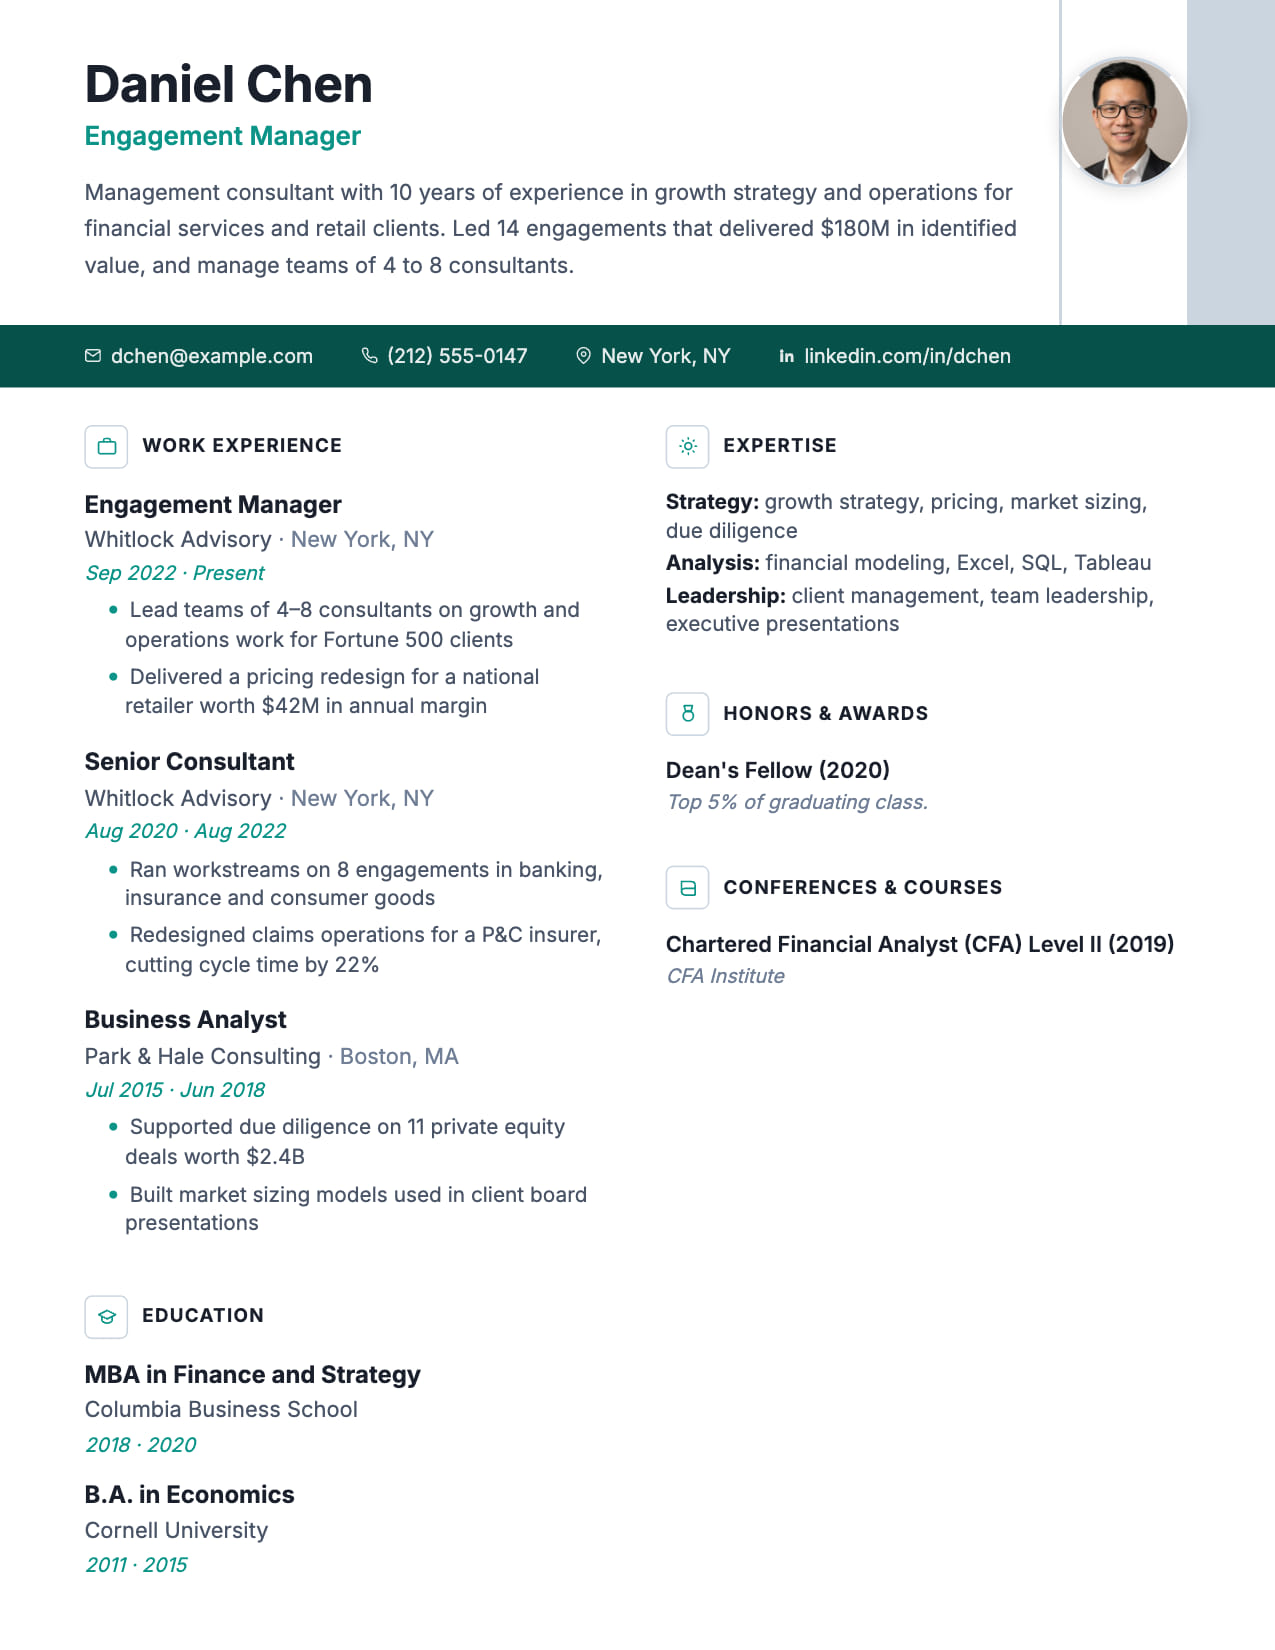
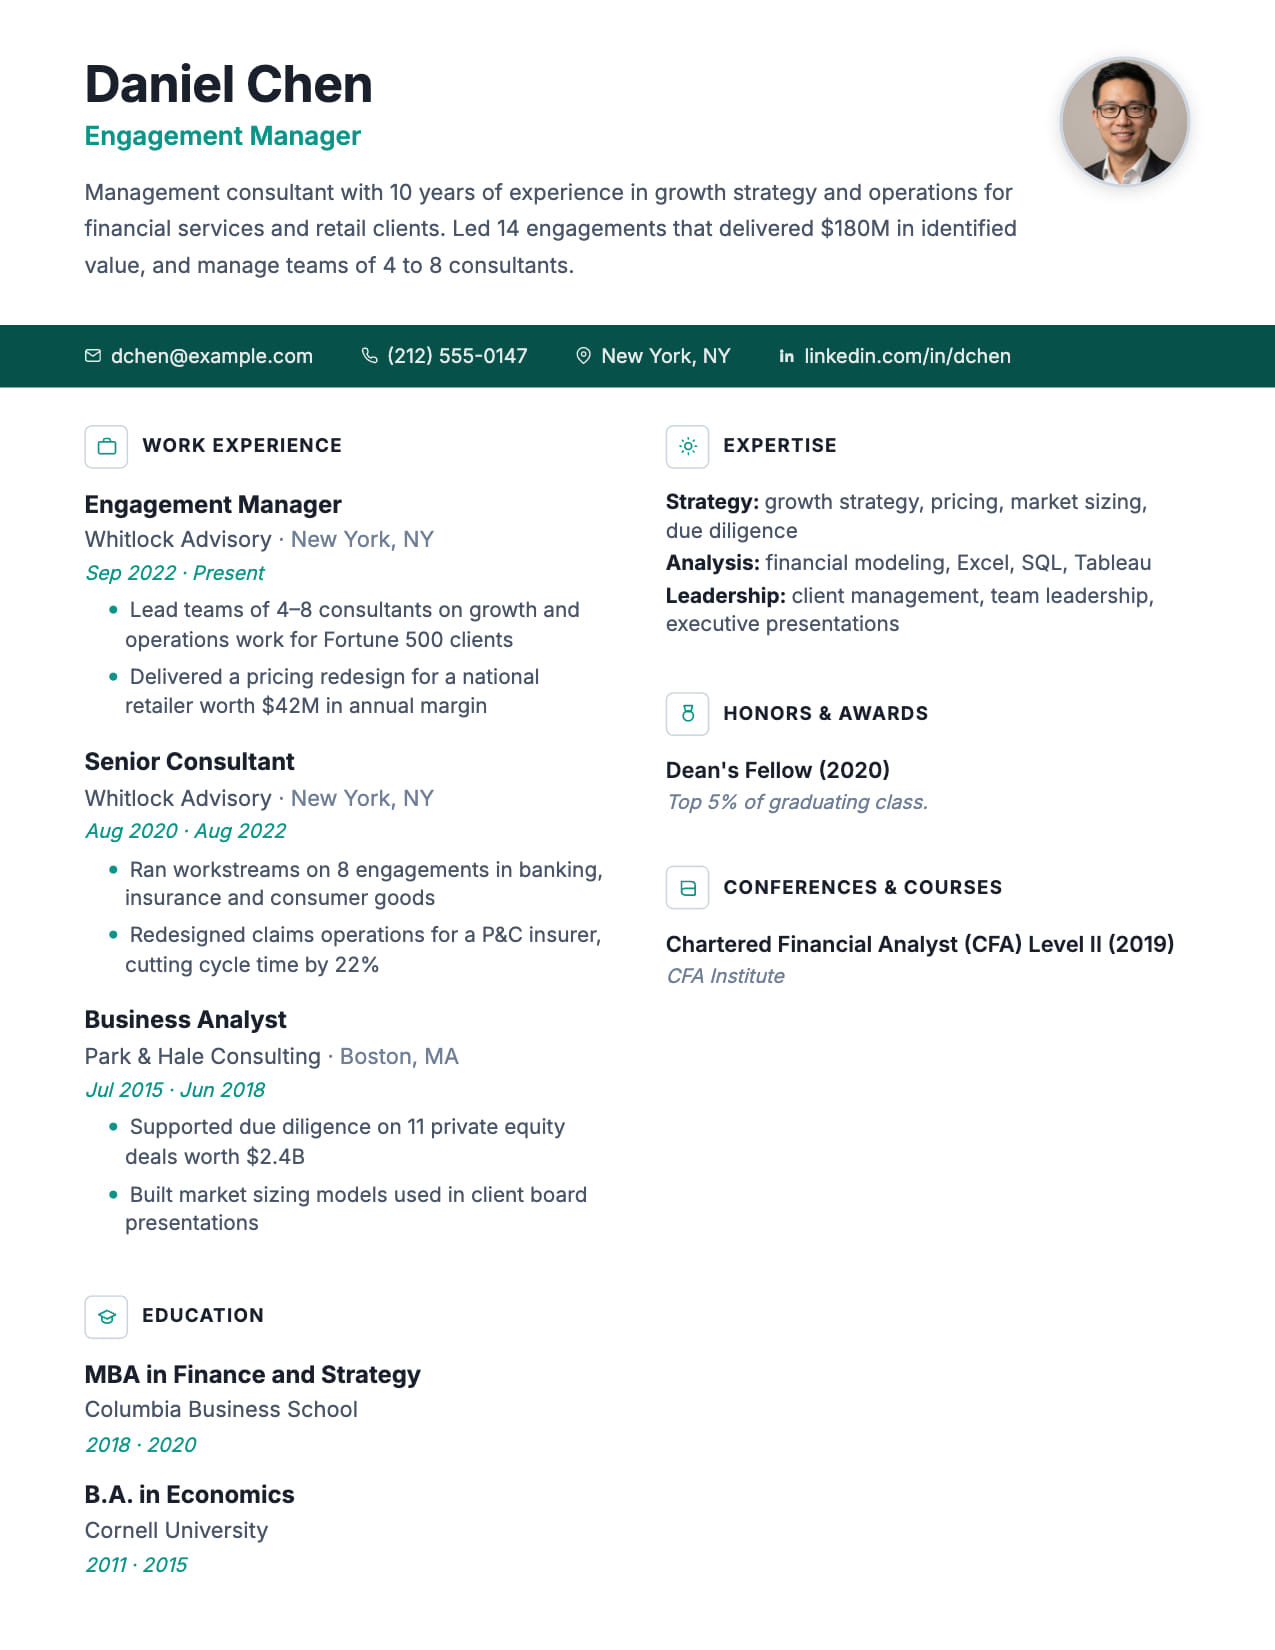
fix: remove invented testimonials; fix PDF page-1 and header-stripe bugs
Testimonials
- The homepage carousel started from a hardcoded list of invented people
  and quotes (and the testimonials table never reached production, so that
  list was always what visitors and crawlers saw). Testimonials now load on
  the server from published rows only; the section hides when there are
  none and no public rating. Removed the unused /api/testimonials route.
- Migration 00077 creates the testimonials table without seed rows, deletes
  00046's invented seed rows where it ran, and drops the permissive
  "FOR ALL USING (true)" policy that let the anon key write testimonials.

PDF
- Column fold skips rows shorter than half a page, so header bands (Aurora,
  Executive Pro) no longer get their photo cell painted as vertical stripes.
- Horizon, Linen, Vantage: bottom space is a margin instead of padding.
  When only the padding ran past page 1, Chromium moved the whole column
  row to page 2 and left page 1 with just the header.

Changed region(s): [[0.9176, 0.0, 1.0, 0.2164], [0.8259, 0.0927, 0.8565, 0.1236], [0.8259, 0.0309, 0.8565, 0.0618]]

diff --git a/components/marketing/testimonials-carousel.tsx b/components/marketing/testimonials-carousel.tsx
@@ -2,91 +2,8 @@
 
 import { useCallback, useEffect, useRef, useState } from "react";
 import { Star } from "lucide-react";
+import type { Testimonial } from "@/lib/feedback/testimonials";
 
-interface Testimonial {
-  id: string;
-  quote: string;
-  name: string;
-  role: string;
-  company: string;
-  gradient: string;
-  avatar_bg: string;
-}
-
-const FALLBACK: Testimonial[] = [
-  {
-    id: "1",
-    quote: "My ATS score went from 58 to 92 in under 10 minutes. I got 3 interview callbacks within a week of updating my CV. It's a tool I rely on every day.",
-    name: "Priya Sharma",
-    role: "Senior Software Engineer",
-    company: "Google",
-    gradient: "from-pink-500 to-yellow-400",
-    avatar_bg: "bg-rose-100",
-  },
-  {
-    id: "2",
-    quote: "Most of my interviews I get now, I get thanks to CVEdge. Out of 10 applications, 7 are landing callbacks with CVEdge, which is highly accurate so I don't need anything else.",
-    name: "James Chen",
-    role: "Product Manager",
-    company: "Meta",
-    gradient: "from-fuchsia-500 to-cyan-400",
-    avatar_bg: "bg-fuchsia-100",
-  },
-  {
-    id: "3",
-    quote: "Before CVEdge we were not able to get past ATS filters. With CVEdge we now pass 40-50% of automated screens. We chose CVEdge because we could easily fix the issues.",
-    name: "Sarah Mitchell",
-    role: "Data Scientist",
-    company: "Amazon",
-    gradient: "from-yellow-400 to-lime-400",
-    avatar_bg: "bg-amber-100",
-  },
-  {
-    id: "4",
-    quote: "The hardest part of job hunting is tailoring your CV for each role. Now with CVEdge, my match rate is up 4X from 5% to 20%. It completely changed my approach.",
-    name: "Marcus Johnson",
-    role: "DevOps Engineer",
-    company: "Netflix",
-    gradient: "from-pink-500 to-violet-500",
-    avatar_bg: "bg-violet-100",
-  },
-  {
-    id: "5",
-    quote: "The AI rewrite feature is incredible. It turned my vague bullet points into measurable achievements without making anything up. Best CV tool I've ever used.",
-    name: "Emily Rodriguez",
-    role: "UX Designer",
-    company: "Apple",
-    gradient: "from-cyan-400 to-blue-500",
-    avatar_bg: "bg-cyan-100",
-  },
-  {
-    id: "6",
-    quote: "As a career changer, I had no idea what keywords to use. CVEdge mapped my transferable skills perfectly to tech roles and I landed my dream job in 3 weeks.",
-    name: "Daniel Kim",
-    role: "Frontend Developer",
-    company: "Stripe",
-    gradient: "from-lime-400 to-emerald-500",
-    avatar_bg: "bg-emerald-100",
-  },
-  {
-    id: "7",
-    quote: "I've been in recruiting for 12 years. CVEdge catches the same things our ATS filters for. I now recommend it to every candidate I work with.",
-    name: "Rachel Foster",
-    role: "Senior Recruiter",
-    company: "Microsoft",
-    gradient: "from-orange-400 to-pink-500",
-    avatar_bg: "bg-orange-100",
-  },
-  {
-    id: "8",
-    quote: "The Fix All feature rewrote my entire CV in one click and my score jumped 25 points. I was speechless. Went from zero callbacks to 4 interviews in a week.",
-    name: "Nina Patel",
-    role: "Marketing Manager",
-    company: "Salesforce",
-    gradient: "from-violet-500 to-fuchsia-400",
-    avatar_bg: "bg-purple-100",
-  },
-];
 
 function getInitials(name: string) {
   return name
@@ -153,26 +70,19 @@ function TestimonialCard({
 
 export function TestimonialsCarousel({
   title = "What customers say about us",
+  testimonials,
   rating = null,
 }: {
   title?: string;
+  /** Published testimonials only (lib/feedback/testimonials.ts), loaded on the server. */
+  testimonials: Testimonial[];
   /** Average of real post-download ratings; null until there are enough to show. */
   rating?: { average: number; count: number } | null;
 }) {
-  const [testimonials, setTestimonials] = useState<Testimonial[]>(FALLBACK);
   const [activeIndex, setActiveIndex] = useState(0);
   const [paused, setPaused] = useState(false);
   const trackRef = useRef<HTMLDivElement>(null);
   const timerRef = useRef<ReturnType<typeof setInterval>>();
-
-  useEffect(() => {
-    fetch("/api/testimonials")
-      .then((r) => r.json())
-      .then((data) => {
-        if (Array.isArray(data) && data.length > 0) setTestimonials(data);
-      })
-      .catch(() => {});
-  }, []);
 
   const count = testimonials.length;
 
@@ -224,46 +134,48 @@ export function TestimonialsCarousel({
       </div>
 
       {/* Step-based carousel */}
-      <div
-        className="relative min-h-[420px]"
-        onMouseEnter={() => setPaused(true)}
-        onMouseLeave={() => setPaused(false)}
-      >
-        {/* Edge fades */}
-        <div className="pointer-events-none absolute inset-y-0 left-0 z-20 w-16 sm:w-32 bg-gradient-to-r from-muted/60 to-transparent" />
-        <div className="pointer-events-none absolute inset-y-0 right-0 z-20 w-16 sm:w-32 bg-gradient-to-l from-muted/60 to-transparent" />
+      {count > 0 && (
+        <div
+          className="relative min-h-[420px]"
+          onMouseEnter={() => setPaused(true)}
+          onMouseLeave={() => setPaused(false)}
+        >
+          {/* Edge fades */}
+          <div className="pointer-events-none absolute inset-y-0 left-0 z-20 w-16 sm:w-32 bg-gradient-to-r from-muted/60 to-transparent" />
+          <div className="pointer-events-none absolute inset-y-0 right-0 z-20 w-16 sm:w-32 bg-gradient-to-l from-muted/60 to-transparent" />
 
-        <div className="overflow-hidden px-4">
-          <div
-            ref={trackRef}
-            className="flex gap-6 transition-transform duration-700 ease-in-out py-6"
-          >
+          <div className="overflow-hidden px-4">
+            <div
+              ref={trackRef}
+              className="flex gap-6 transition-transform duration-700 ease-in-out py-6"
+            >
+              {testimonials.map((t, i) => (
+                <TestimonialCard
+                  key={t.id}
+                  testimonial={t}
+                  isCenter={i === activeIndex}
+                />
+              ))}
+            </div>
+          </div>
+
+          {/* Dot indicators */}
+          <div className="flex items-center justify-center gap-2 mt-8">
             {testimonials.map((t, i) => (
-              <TestimonialCard
+              <button
                 key={t.id}
-                testimonial={t}
-                isCenter={i === activeIndex}
+                onClick={() => setActiveIndex(i)}
+                className={`rounded-full transition-all duration-500 ${
+                  i === activeIndex
+                    ? "w-8 h-2 bg-foreground"
+                    : "w-2 h-2 bg-muted-foreground/30 hover:bg-muted-foreground/50"
+                }`}
+                aria-label={`Go to testimonial ${i + 1}`}
               />
             ))}
           </div>
         </div>
-
-        {/* Dot indicators */}
-        <div className="flex items-center justify-center gap-2 mt-8">
-          {testimonials.map((t, i) => (
-            <button
-              key={t.id}
-              onClick={() => setActiveIndex(i)}
-              className={`rounded-full transition-all duration-500 ${
-                i === activeIndex
-                  ? "w-8 h-2 bg-foreground"
-                  : "w-2 h-2 bg-muted-foreground/30 hover:bg-muted-foreground/50"
-              }`}
-              aria-label={`Go to testimonial ${i + 1}`}
-            />
-          ))}
-        </div>
-      </div>
+      )}
     </section>
   );
 }

diff --git a/app/(marketing)/page.tsx b/app/(marketing)/page.tsx
@@ -24,6 +24,7 @@ import { LiveJobsBand } from "@/components/marketing/live-jobs-band";
 import { LogoCarousel } from "@/components/marketing/logo-carousel";
 import { TestimonialsCarousel } from "@/components/marketing/testimonials-carousel";
 import { getPublicRatingStats } from "@/lib/feedback/stats";
+import { getPublishedTestimonials } from "@/lib/feedback/testimonials";
 import { TRENDING_ROLES } from "@/lib/jobs/role-categories";
 
 export const metadata: Metadata = {
@@ -62,7 +63,7 @@ const COMPARISON = [
 export default async function HomePage() {
   // Real post-download ratings. Null until enough exist to display, and the
   // schema below only carries a rating that is visible on this page.
-  const rating = await getPublicRatingStats();
+  const [rating, testimonials] = await Promise.all([getPublicRatingStats(), getPublishedTestimonials()]);
 
   const jsonLd = {
     "@context": "https://schema.org",
@@ -507,7 +508,9 @@ export default async function HomePage() {
       </section>
 
       {/* ─── TESTIMONIALS ─── */}
-      <TestimonialsCarousel rating={rating} />
+      {/* Real testimonials and ratings only; hidden until there are some.
+          The rating line must stay visible whenever AggregateRating is emitted. */}
+      {(testimonials.length > 0 || rating) && <TestimonialsCarousel testimonials={testimonials} rating={rating} />}
 
       {/* ─── POPULAR ROLES (SEO internal linking) ─── */}
       <section className="py-16 md:py-20">

diff --git a/lib/feedback/testimonials.ts b/lib/feedback/testimonials.ts
@@ -1,0 +1,35 @@
+import { createAdminClient } from "@/lib/supabase/admin";
+
+export interface Testimonial {
+  id: string;
+  quote: string;
+  name: string;
+  role: string;
+  company: string;
+  gradient: string;
+  avatar_bg: string;
+}
+
+/**
+ * Testimonials an admin has published (from a consented feedback comment or
+ * entered by hand). Marketing pages show only these, never placeholder
+ * quotes: invented testimonials are deceptive advertising (FTC 16 CFR 465 in
+ * the US) and Google treats them as spam. An empty list hides the section.
+ */
+export async function getPublishedTestimonials(): Promise<Testimonial[]> {
+  try {
+    const { data, error } = await createAdminClient()
+      .from("testimonials")
+      .select("id, quote, name, role, company, gradient, avatar_bg")
+      .eq("enabled", true)
+      .order("sort_order");
+    if (error) {
+      console.error("[testimonials] load failed:", error.message);
+      return [];
+    }
+    return (data ?? []) as Testimonial[];
+  } catch (err) {
+    console.error("[testimonials] load failed:", err);
+    return [];
+  }
+}

diff --git a/components/resume/templates/vantage.tsx b/components/resume/templates/vantage.tsx
@@ -533,7 +533,11 @@ export function Vantage({
         fontSize: "var(--resume-body-size)",
         lineHeight: "var(--resume-line-spacing)",
         color: bodyText,
-        padding: `${marginY}in ${marginX}in`,
+        // No bottom padding: Chromium can't break the column grid inside it,
+        // so when only the padding ran past page 1 the whole grid moved to
+        // page 2. The grid's bottom margin gives the same space and is
+        // dropped at a page break.
+        padding: `${marginY}in ${marginX}in 0`,
         minHeight: paperHeight,
       }}
     >
@@ -610,6 +614,7 @@ export function Vantage({
           gridTemplateColumns: "minmax(0, 57fr) minmax(0, 40fr)",
           columnGap: 24,
           alignItems: "start",
+          marginBottom: `${marginY}in`,
         }}
       >
         <div style={{ minWidth: 0 }}>{renderColumn(leftContent)}</div>

diff --git a/components/resume/templates/linen.tsx b/components/resume/templates/linen.tsx
@@ -495,7 +495,11 @@ export function Linen({
       style={{
         ...bodyStyle,
         background: PAGE_BG,
-        padding: `${marginY}in ${marginX}in`,
+        // No bottom padding: Chromium can't break the column grid inside it,
+        // so when only the padding ran past page 1 the whole grid moved to
+        // page 2. The grid's bottom margin gives the same space and is
+        // dropped at a page break.
+        padding: `${marginY}in ${marginX}in 0`,
         minHeight: paperHeight,
       }}
     >
@@ -506,6 +510,7 @@ export function Linen({
           display: "grid",
           gridTemplateColumns: `${LEFT_COL + HALF_GUTTER}% ${RIGHT_COL + HALF_GUTTER}%`,
           alignItems: "stretch",
+          marginBottom: `${marginY}in`,
         }}
       >
         {/* LEFT column: sections separated by a rule ending in a diamond on the divider */}

diff --git a/components/resume/templates/two-column.tsx b/components/resume/templates/two-column.tsx
@@ -401,11 +401,16 @@ export function TwoColumnTemplate({
         }}
       />
 
-      {/* ── BODY: TWO COLUMNS ── */}
+      {/* ── BODY: TWO COLUMNS ──
+          Bottom space is a margin, not padding. Chromium can't break a flex
+          row inside its padding, so when only the padding ran past page 1 it
+          moved the whole row to page 2 and left page 1 with just the header.
+          A margin at a page break is simply dropped. */}
       <div
         style={{
           display: "flex",
-          padding: `${marginY * 0.5}in ${marginX}in ${marginY}in`,
+          padding: `${marginY * 0.5}in ${marginX}in 0`,
+          marginBottom: `${marginY}in`,
           gap: `${marginX * 0.4}in`,
         }}
       >

diff --git a/lib/pdf/html-to-pdf.ts b/lib/pdf/html-to-pdf.ts
@@ -184,6 +184,10 @@ export async function applyPrintLayoutFixes(page: Page): Promise<{ color: string
       // Only target page-spanning columns (≥ 50 % viewport width). Chip rows,
       // buttons, nav items etc. are left untouched.
       if (box.width < window.innerWidth * 0.5) return;
+      // Nor short rows: a header band (name beside a photo, as in Aurora and
+      // Executive Pro) is a wide flex row too, and folding it painted its
+      // photo cell's fill and border as full-height stripes.
+      if (box.height < window.innerHeight * 0.5) return;
 
       const kids = Array.from(el.children).filter(
         (k) => getComputedStyle(k as HTMLElement).display !== "none"
